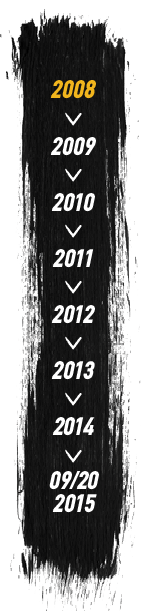
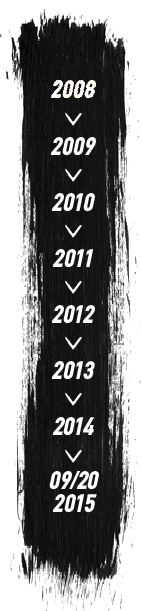
Complete video timeline prefs

Changed region(s): [[0.3662, 0.1244, 0.6761, 0.1866]]

diff --git a/athensreport/static/js/theproject.js b/athensreport/static/js/theproject.js
@@ -4,10 +4,9 @@ $(document).ready(function() {
     // Fetch items
     var items = {
         getItems: function(data) {
-            var url = '/items/' + data.category + '/';
+            var url = '/items/' + data.category + '/' + data.timestamp + '/' + data.year + '/';
             var opts = {
-                url: url,
-                data: data
+                url: url
             };
             return $.ajax(opts, function() {}, function(error) {
                 console.error('Error fetching', error);
@@ -16,8 +15,7 @@ $(document).ready(function() {
         getItem: function(data) {
             var url = '/item/' + data.id + '/';
             var opts = {
-                url: url,
-                data: data
+                url: url
             };
             return $.ajax(opts, function() {}, function(error) {
                 console.error('Error fetching', error);
@@ -128,40 +126,44 @@ $(document).ready(function() {
     var render = function(params) {
         var elements = '';
 
-        params.forEach(function(item) {
-            var element = `
-              <div class="col-md-6 gallery-item">
-                <a href="#" class="details" data-id="${item.pk}">
-                  <img src="/media/${item.fields.source_thumb}" alt="${item.fields.title}" class="gallery-thumb">
-                </a>
-                <p class="details-title">${item.fields.title}</p>
-            `;
-            if (item.fields.social_graph) {
-                var pubdate = `
-                    <p class="details-created social-graph-date yellow-dark">${item.fields.created}</p>
+        if (params.length) {
+            params.forEach(function(item) {
+                var element = `
+                  <div class="col-md-6 gallery-item">
+                    <a href="#" class="details" data-id="${item.pk}">
+                      <img src="/media/${item.fields.source_thumb}" alt="${item.fields.title}" class="gallery-thumb">
+                    </a>
+                    <p class="details-title">${item.fields.title}</p>
                 `;
-            } else {
-                var pubdate = `
-                    <p class="details-created yellow-dark">${item.fields.created}</p>
-                `;
-            }
-            if (item.fields.category == 'Photo') {
-                var cat_icon = `
-                      <div class="details-cat-icon">
-                        <img src="/static/img/photo.png" alt="photo">
-                      </div>
-                    </div>
-                `;
-            } else {
-                var cat_icon = `
-                      <div class="details-cat-icon">
-                        <img src="/static/img/video.png" alt="video">
-                      </div>
-                    </div>
-                `;
-            }
-            elements += (element + pubdate + cat_icon);
-        });
+                if (item.fields.social_graph) {
+                    var pubdate = `
+                        <p class="details-created social-graph-date yellow-dark">${item.fields.created}</p>
+                    `;
+                } else {
+                    var pubdate = `
+                        <p class="details-created yellow-dark">${item.fields.created}</p>
+                    `;
+                }
+                if (item.fields.category == 'Photo') {
+                    var cat_icon = `
+                          <div class="details-cat-icon">
+                            <img src="/static/img/photo.png" alt="photo">
+                          </div>
+                        </div>
+                    `;
+                } else {
+                    var cat_icon = `
+                          <div class="details-cat-icon">
+                            <img src="/static/img/video.png" alt="video">
+                          </div>
+                        </div>
+                    `;
+                }
+                elements += (element + pubdate + cat_icon);
+            });
+        } else {
+            elements = `<p class="empty-gallery">No gallery items on this specific time or year.</p>`;
+        }
 
         var rendered = `${elements}`;
 
@@ -171,10 +173,67 @@ $(document).ready(function() {
     var gallery = $('#gallery-items');
     var category = $(gallery).data('category');
 
-    items.getItems({
-        category: category
-    }).done(function(data) {
-        gallery.html(render(data));
-        $('body').trigger('itemsloaded');
+    // Filter by year
+    $('.year-pick').on('click', function(event) {
+        event.preventDefault();
+        currentYear = $(this).data('year');
+        console.log(currentYear);
+        $('#years > img').attr('src', '/static/img/years_' + currentYear + '.png');
+        items.getItems({
+            category: category,
+            timestamp: currentTime,
+            year: currentYear
+        }).done(function(data) {
+            gallery.html(render(data));
+            $('body').trigger('itemsloaded');
+        });
     });
+
+    // Select all things
+    var pop = Popcorn('#thevideo');
+    var video = $('#thevideo');
+    var route = $('.route');
+    var route_title = $('.route-title');
+    var elm_gallery = $('#gallery');
+    var elm_strip = $('#gallery-strip');
+    var elm_back = $('#video-back');
+    var elm_detailsSource = $('#details-source');
+    var elm_detailsInfo = $('#details-info');
+
+    // Keep the moments
+    var currentTime;
+    var currentYear = 2008;
+
+    // Catch pause event and send over the current position
+    pop.on('pause', function() {
+        currentTime = this.currentTime();
+        console.log(currentTime);
+        elm_gallery.slideDown();
+        elm_strip.slideDown();
+        route.hide();
+        route_title.hide();
+        $('#years > img').attr('src', '/static/img/years_' + currentYear + '.png');
+        items.getItems({
+            category: category,
+            timestamp: currentTime,
+            year: currentYear
+        }).done(function(data) {
+            gallery.html(render(data));
+            $('body').trigger('itemsloaded');
+        });
+    });
+
+    // Hide elements on play
+    pop.on('play', function() {
+        route.show();
+        route_title.show();
+        elm_gallery.slideUp();
+        elm_strip.slideUp();
+        elm_detailsSource.text('');
+        elm_detailsInfo.text('');
+        elm_back.slideUp();
+    });
+
+    // Start the video
+    pop.play();
 });

diff --git a/athensreport/templates/gallery/theproject.html b/athensreport/templates/gallery/theproject.html
@@ -38,7 +38,18 @@
     <div class="gallery container" id="gallery">
       <div class="row">
         <div class="col-md-2" id="years">
-          <img src="{% static 'img/years.png' %}" alt="">
+          <img src="{% static 'img/years_2008.png' %}" alt="" usemap="#yearsmap">
+
+          <map name="yearsmap">
+            <area class="year-pick" shape="rect" coords="50, 80, 95, 100" href="#" alt="" data-year="2008">
+            <area class="year-pick" shape="rect" coords="50, 135, 95, 155" href="#" alt="" data-year="2009">
+            <area class="year-pick" shape="rect" coords="50, 192, 95, 210" href="#" alt="" data-year="2010">
+            <area class="year-pick" shape="rect" coords="50, 250, 95, 270" href="#" alt="" data-year="2011">
+            <area class="year-pick" shape="rect" coords="50, 300, 95, 325" href="#" alt="" data-year="2012">
+            <area class="year-pick" shape="rect" coords="50, 360, 95, 380" href="#" alt="" data-year="2013">
+            <area class="year-pick" shape="rect" coords="50, 415, 95, 435" href="#" alt="" data-year="2014">
+            <area class="year-pick" shape="rect" coords="50, 470, 95, 510" href="#" alt="" data-year="2015">
+          </map>
         </div>
         <div class="col-md-7 gallery-details">
           <div class="gallery-top-icons">
@@ -100,6 +111,7 @@
 
 {% block javascript %}
   {{ block.super }}
+  <script src="{% static 'js/lib/popcorn-complete.min.js' %}"></script>
   <script src="{% static 'js/theproject.js' %}"></script>
-  <script src="{% static 'js/video.js' %}"></script>
+  <!--<script src="{% static 'js/video.js' %}"></script>-->
 {% endblock javascript %}

diff --git a/athensreport/static/css/app.css b/athensreport/static/css/app.css
@@ -356,6 +356,10 @@ a:hover {
     color: white;
 }
 
+.empty-gallery {
+    margin-left: 10px;
+}
+
 .upload-media,
 .video-back {
     width: 206px;

diff --git a/athensreport/gallery/views.py b/athensreport/gallery/views.py
@@ -8,14 +8,24 @@ from django.db.models import Q
 from athensreport.gallery.models import Item
 
 
-def items(request, category):
+def items(request, category, timestamp, year):
     gallery = Item.objects.all()
     category = category[0].upper() + category[1:]
+    timestamp = int(timestamp.split('.')[0]) / 60
+    data = []
     if category == 'Project':
-        items = gallery.filter(Q(category='Video') | Q(category='Photo'))
+        items = gallery.filter(Q(category='Video') | Q(category='Photo')).filter(created__year=year)
     else:
         items = Item.objects.filter(category=category)
-    response = serializers.serialize('json', items)
+    for item in items:
+        minute = item.timestamp.minute
+        if item.timestamp.hour > 0:
+            minute = minute + 60
+        low = minute - 10
+        high = minute + 10
+        if low <= timestamp <= high:
+            data.append(item)
+    response = serializers.serialize('json', data)
     return JsonResponse(json.loads(response), safe=False)
 
 

diff --git a/athensreport/gallery/urls.py b/athensreport/gallery/urls.py
@@ -5,7 +5,7 @@ from athensreport.gallery import views
 gallery_urlpatterns = ([
     url(r'^theproject/$', views.theproject, name='theproject'),
     url(r'^graffiti/$', views.graffiti, name='graffiti'),
-    url(r'^items/(?P<category>[\w]+)/$', views.items, name='items'),
+    url(r'^items/(?P<category>[\w]+)/(?P<timestamp>[0-9.]+)/(?P<year>\d+)/$', views.items, name='items'),
     url(r'^item/(?P<pk>\d+)/$', views.item, name='item'),
     url(r'^upload/$', views.upload, name='upload'),
 ], 'gallery')
